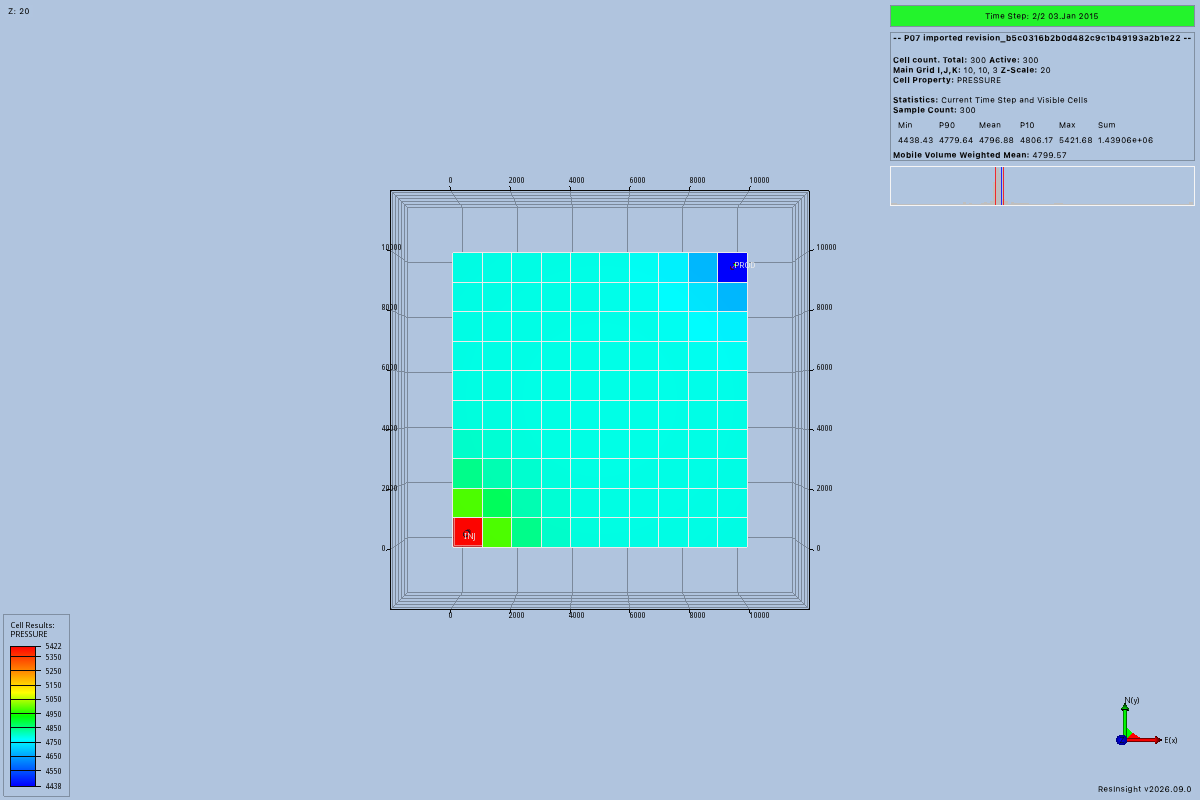
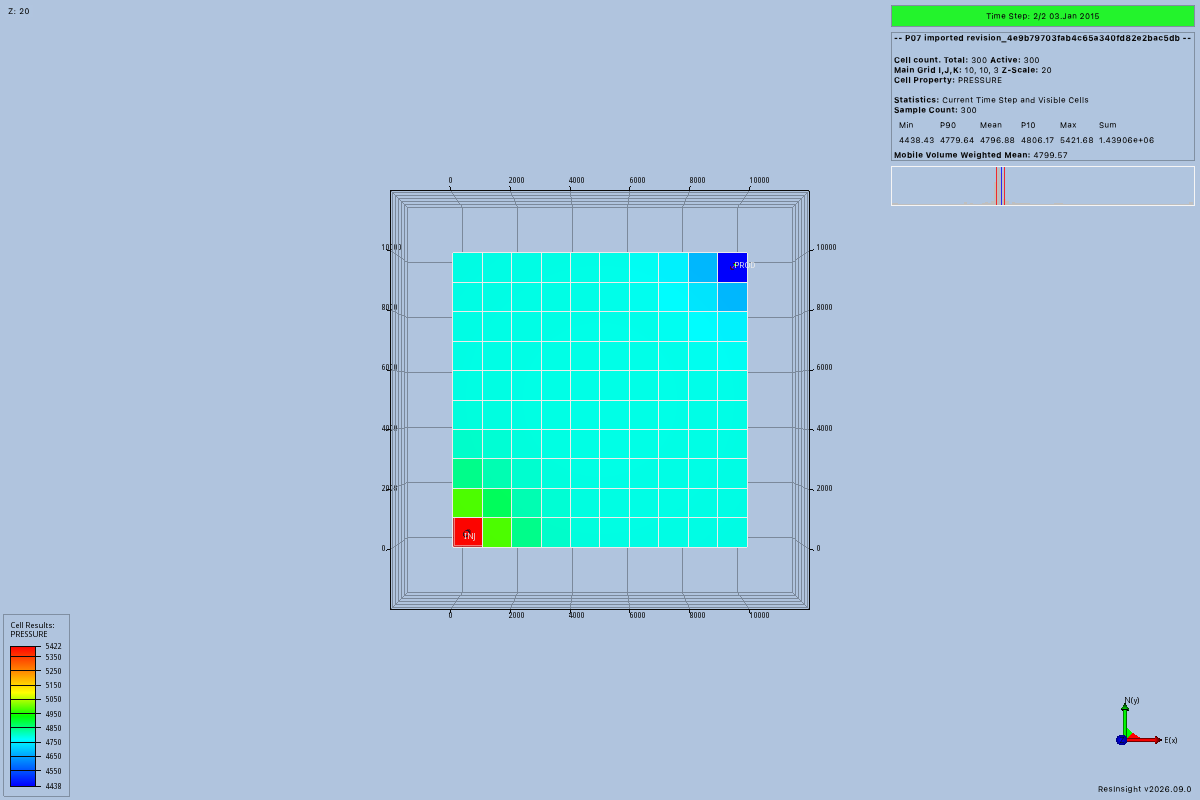
Refresh import acceptance after review repairs
Record the clean fixed implementation, eight public regression cases, and a repeated bounded Flow and ResInsight trial. The stored revision still prepares after source removal.

Preserve the native result image, lineage, command logs, and tool versions. State that Python preparation and trusted setup do not complete the production MCP workflow.

Changed region(s): [[0.74, 0.0, 0.9867, 0.2188]]

diff --git a/docs/development/p07-evidence.md b/docs/development/p07-evidence.md
@@ -1,10 +1,12 @@
 # P07 import evidence
 
 The bounded import acceptance passed on September 8, 2026.
-The tested implementation commit is `8d135b62841aba086ac65ae36b53dfcd7f06c7d7`.
+The tested implementation commit is `f582165d84ee8fdd838d7ccbe552be7a94e41a8c`.
 Its working tree was clean during the recorded runtime trial.
 The [acceptance record](evidence/p07/acceptance.json) contains the source revision, prepared inputs, application connection, and loaded case.
 The [package guide](model-imports.md) defines the supported profile and its limits.
+This trial uses Python preparation and trusted application setup.
+It does not complete an agent workflow through the production MCP server.
 
 ## Result and lineage
 
@@ -13,8 +15,8 @@ The service stores all five sources as immutable input artifacts.
 Its [import record](evidence/p07/import-record.json) maps each relative path to an artifact identifier and records each include edge.
 The separate change list is empty because import makes no input edits.
 
-The prepared revision is `revision_b5c0316b2b0d482c9c1b49193a2b1e22`.
-Its session is `session_01aedac657bb4b1d865fbf2c0c3c4835`.
+The prepared revision is `revision_4e9b79703fab4c65a340fd82e2bac5db`.
+Its session is `session_7353623320114a8db564401c11f9476e`.
 The [receipt](evidence/p07/import-receipt.json) connects that revision to the model summary and import record.
 The trial removes its temporary source copy before preparing the stored revision again.
 It then reconstructs the OPM run inputs from those fixed workspace artifacts.
@@ -89,8 +91,8 @@ That failed trial does not establish support for the 2026.4 Python wheel.
 
 ## Review and checks
 
-The shared repository command passes 204 tests, Ruff, ty, and the strict documentation build for the tested implementation.
-Of those tests, 31 exercise the public import behavior through the real parser.
+The shared repository command passes 212 tests, Ruff, ty, and the strict documentation build for the tested implementation.
+Of those tests, 39 exercise public import behavior, source limits, parser isolation, and publication failures.
 The [check log](evidence/p07/checks.log) records the required command, tested revision, and tool versions.
 The combined pre-commit check runs the same repository command after integration.
 Browser inspection confirms that both package pages render, including the units table and native result image.
@@ -100,6 +102,10 @@ The source collector handles file references and limits, while OPM owns model pa
 The parser process stays separate from workspace storage and native application operations.
 Review found and closed directive bypasses, repeated include expansion, malformed quote failures, and incomplete well controls.
 A regression also rejects shut completions before OPM silently closes a requested open well.
+Final review closed Python module shadowing, oversized repetition conversion, and incorrect effects after partial publication.
+Harmless execution markers remain absent when imported sources use Python package names.
+Store failure tests reopen the workspace and make sure that `UNKNOWN` matches remaining artifacts or a saved revision.
+The native trial was repeated after those repairs with isolated parser startup and a clean working tree.
 
 ## Data terms and limits
 
